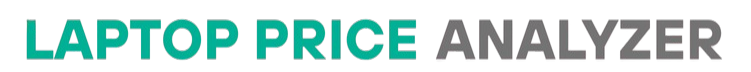
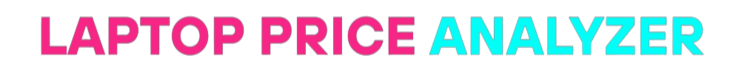
Heading and Fonts
- Changed the color of Title image.
- Change the color of h1 & h3.

diff --git a/css/Style.css b/css/Style.css
@@ -1,3 +1,4 @@
+/* Deploy and Rerun message box hidden */
 .stAppHeader {
     visibility: hidden;
     height: 0;
@@ -5,6 +6,7 @@
     padding: 0;
 }
 
+/* Size adjusted, Background image,  */
 .stMainBlockContainer {
     padding: 0 200px;
     height: 100vh;
@@ -19,26 +21,35 @@
     background-attachment: fixed;
 }
 
+/* Centering the Contents */
 .stMainBlockContainer > [data-testid="stVerticalBlockBorderWrapper"] {
     margin-top: 35px;
 }
 
+/* Unnecessary spacing */
 [data-testid="stHeadingWithActionElements"] h1 {
     padding: 0;
+    color: #D9A7FF;
 }
 
+/* Unnecessary spacing */
 [data-testid="stHeadingWithActionElements"] h3 {
     padding: 0;
+    color: #A0F6FF;
 }
 
+/* Dataframe lift */
 .stDataFrame {
     margin-top: 15px;
 }
 
+/* Font size of write, label, buttons */
 [data-testid="stMarkdownContainer"] p {
     font-size: 17px;
+    color: #f1f1f1;
 }
 
+/* Main container blurry glass effect */
 .stVerticalBlock > [data-testid="stVerticalBlockBorderWrapper"] {
     background: rgba(255, 255, 255, 0.08); 
     padding: 20px;
@@ -48,4 +59,18 @@
     backdrop-filter: blur(12px); 
     -webkit-backdrop-filter: blur(12px); 
     border: 1px solid rgba(255, 255, 255, 0.18); 
+}
+
+/* 
+General Text	#FFFFFF (white) or #F1F1F1	Keep white or light grey for contrast.
+Headings	#00FFFF (Cyan), #66FCF1, #FFDE59	These glow on dark and match cyberpunk theme.
+Buttons Text	#FFFFFF, #EAEAEA, or #00FFC6	Keep contrast with button backgrounds.
+Table Font	#EAEAEA	Not pure white — easier on eyes.
+Welcome Title	#FF6EC7, #00D1FF, or #F72585	Adds vibrance and keeps aesthetic futuristic. 
+*/
+
+h1 {
+    font-family: 'Poppins';
+    color: #00FFFF;
+    /* font-family: 'Poppins', 'Montserrat', or 'Orbitron'; */
 }

diff --git a/app.py b/app.py
@@ -227,9 +227,9 @@ class Pages:
         txt1.title(f"Hello {name}!")
 
         if result.empty:
-            b1, txt2, btn1, btn2, btn3, b2 = st.columns([1, 10, 1.2, 1.2, 1.8, 0.5], vertical_alignment="center")
+            b1, txt2, btn1, btn2, btn3, b2 = st.columns([1.05, 10, 1.2, 1.2, 1.8, 0.4], vertical_alignment="center")
 
-            txt2.subheader("No laptops match your search criteria.\nHere's a list of 5 random laptops for your reference:")
+            txt2.subheader("No laptops match your search criteria.\n Here's a list of 5 random laptops for your reference:")
 
             # Random 5 logic
             if "random_laptops" not in st.session_state:
